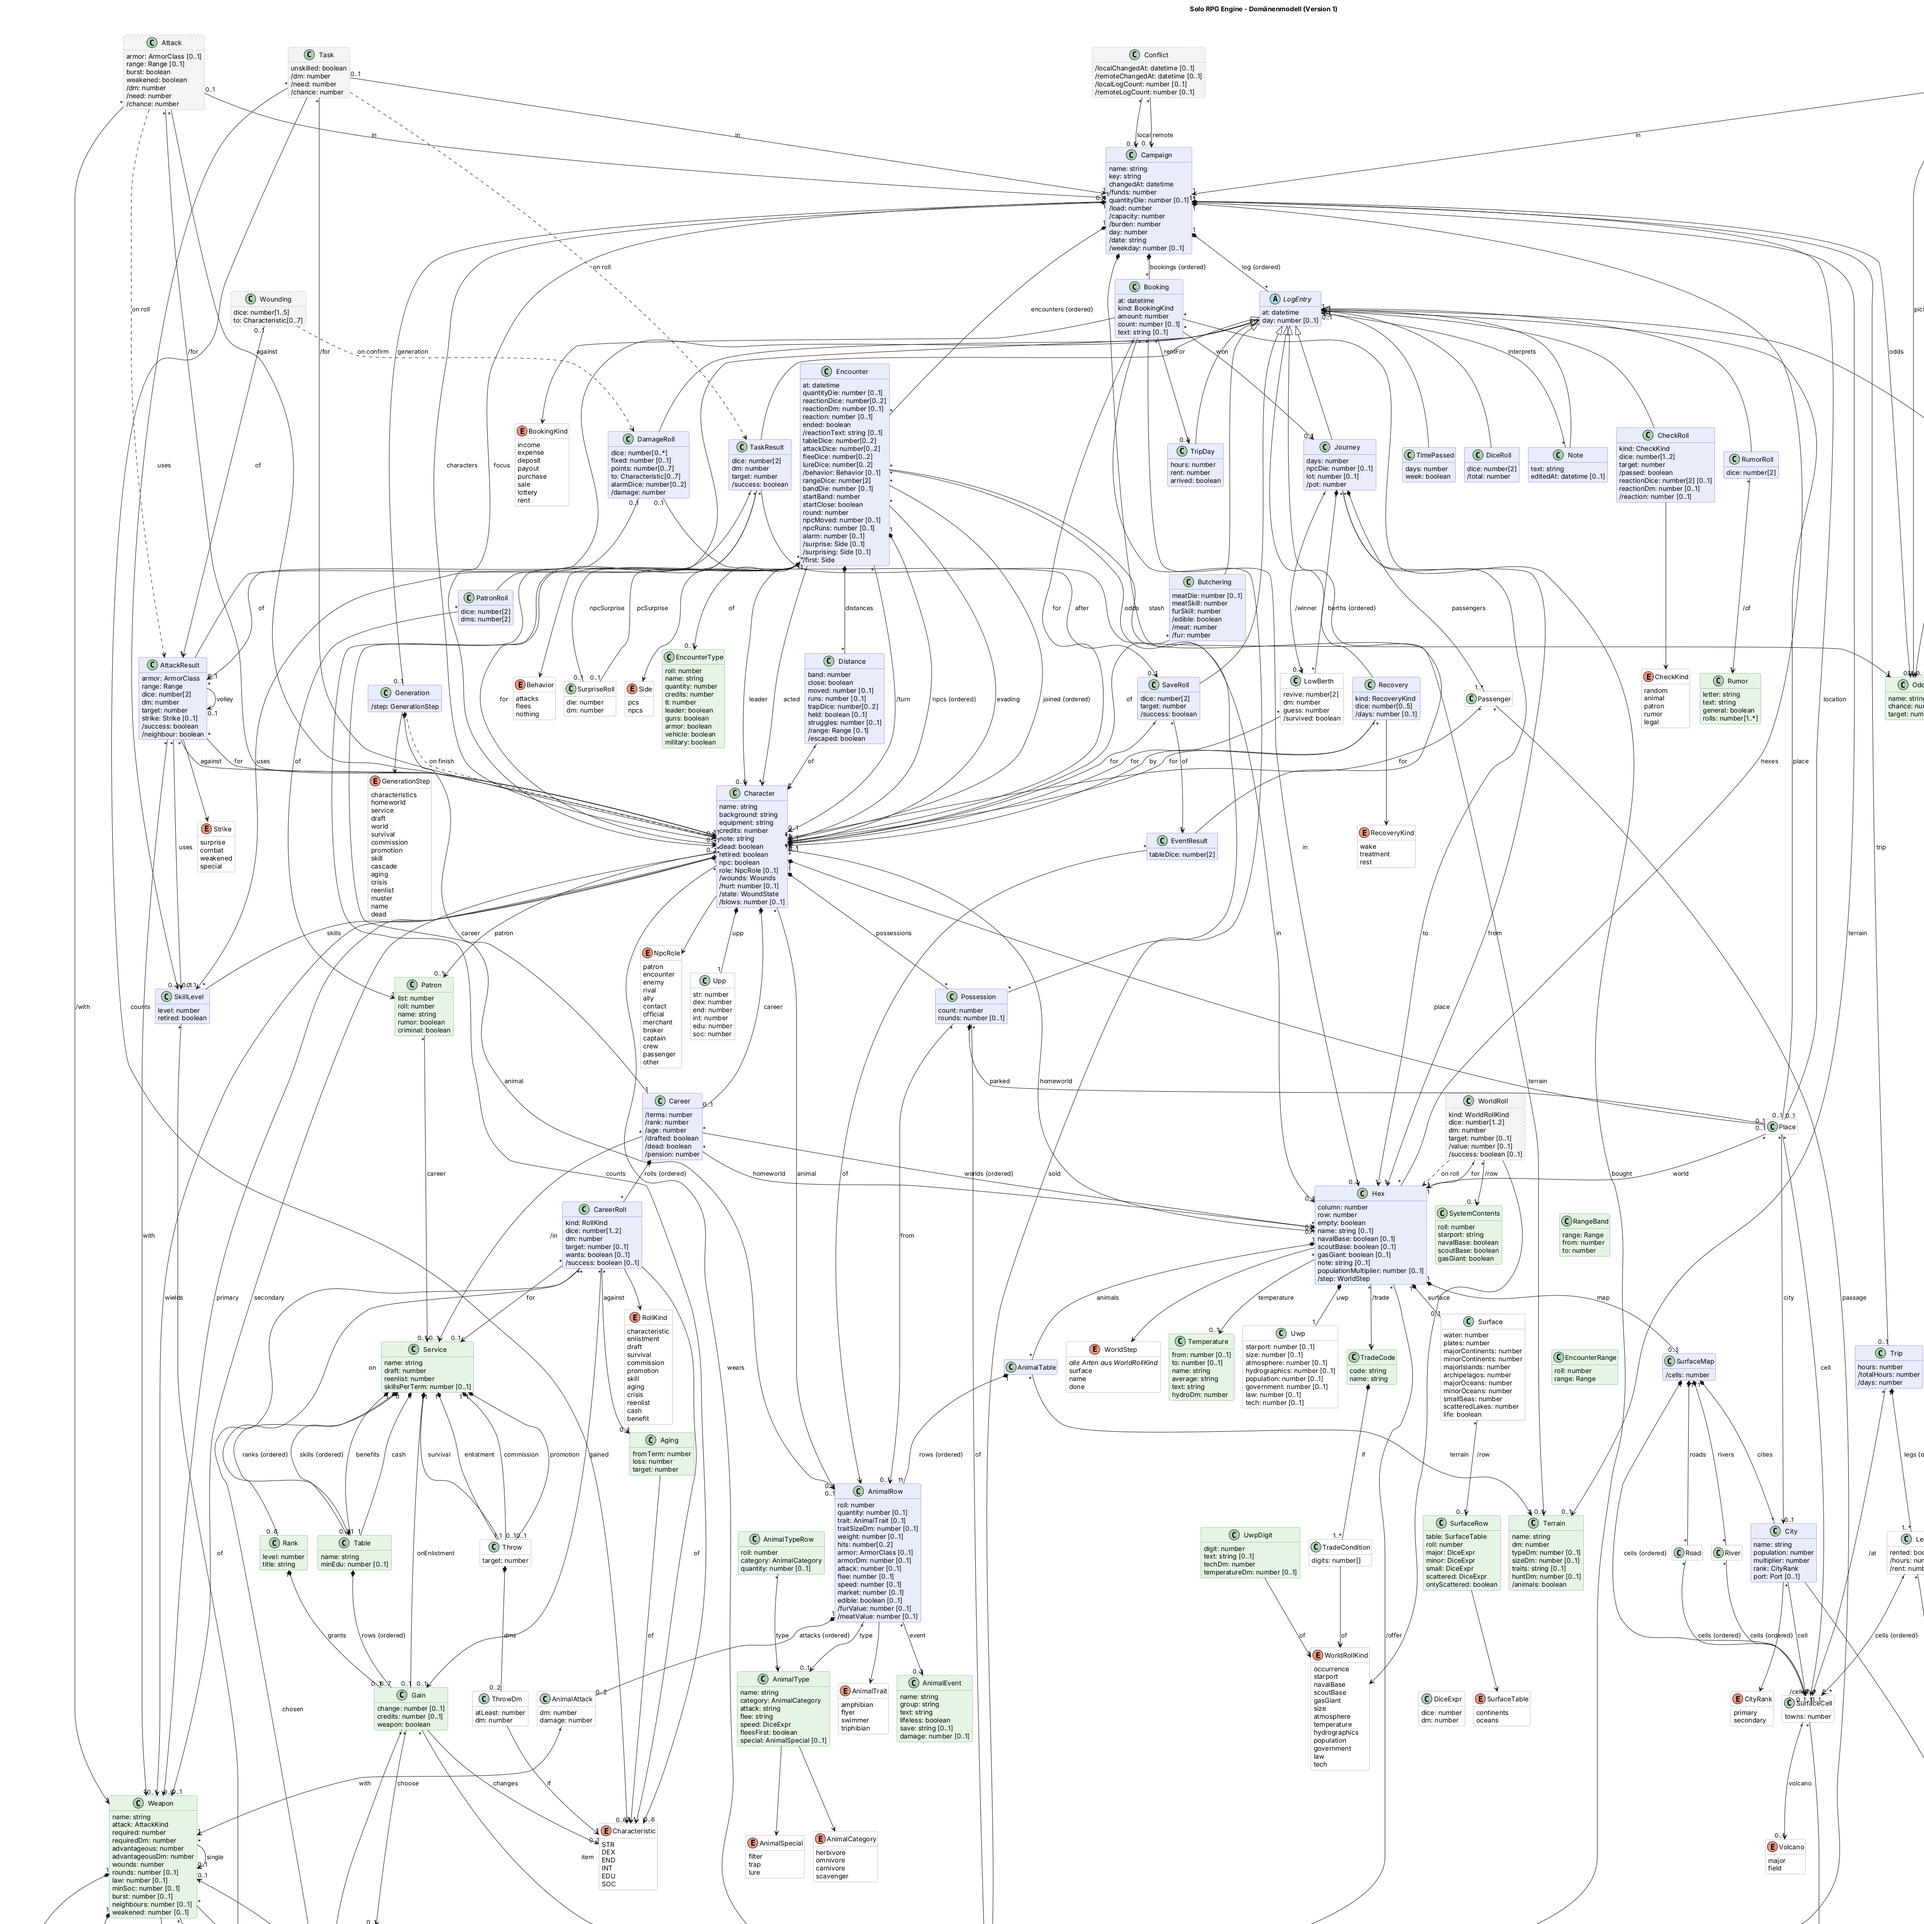
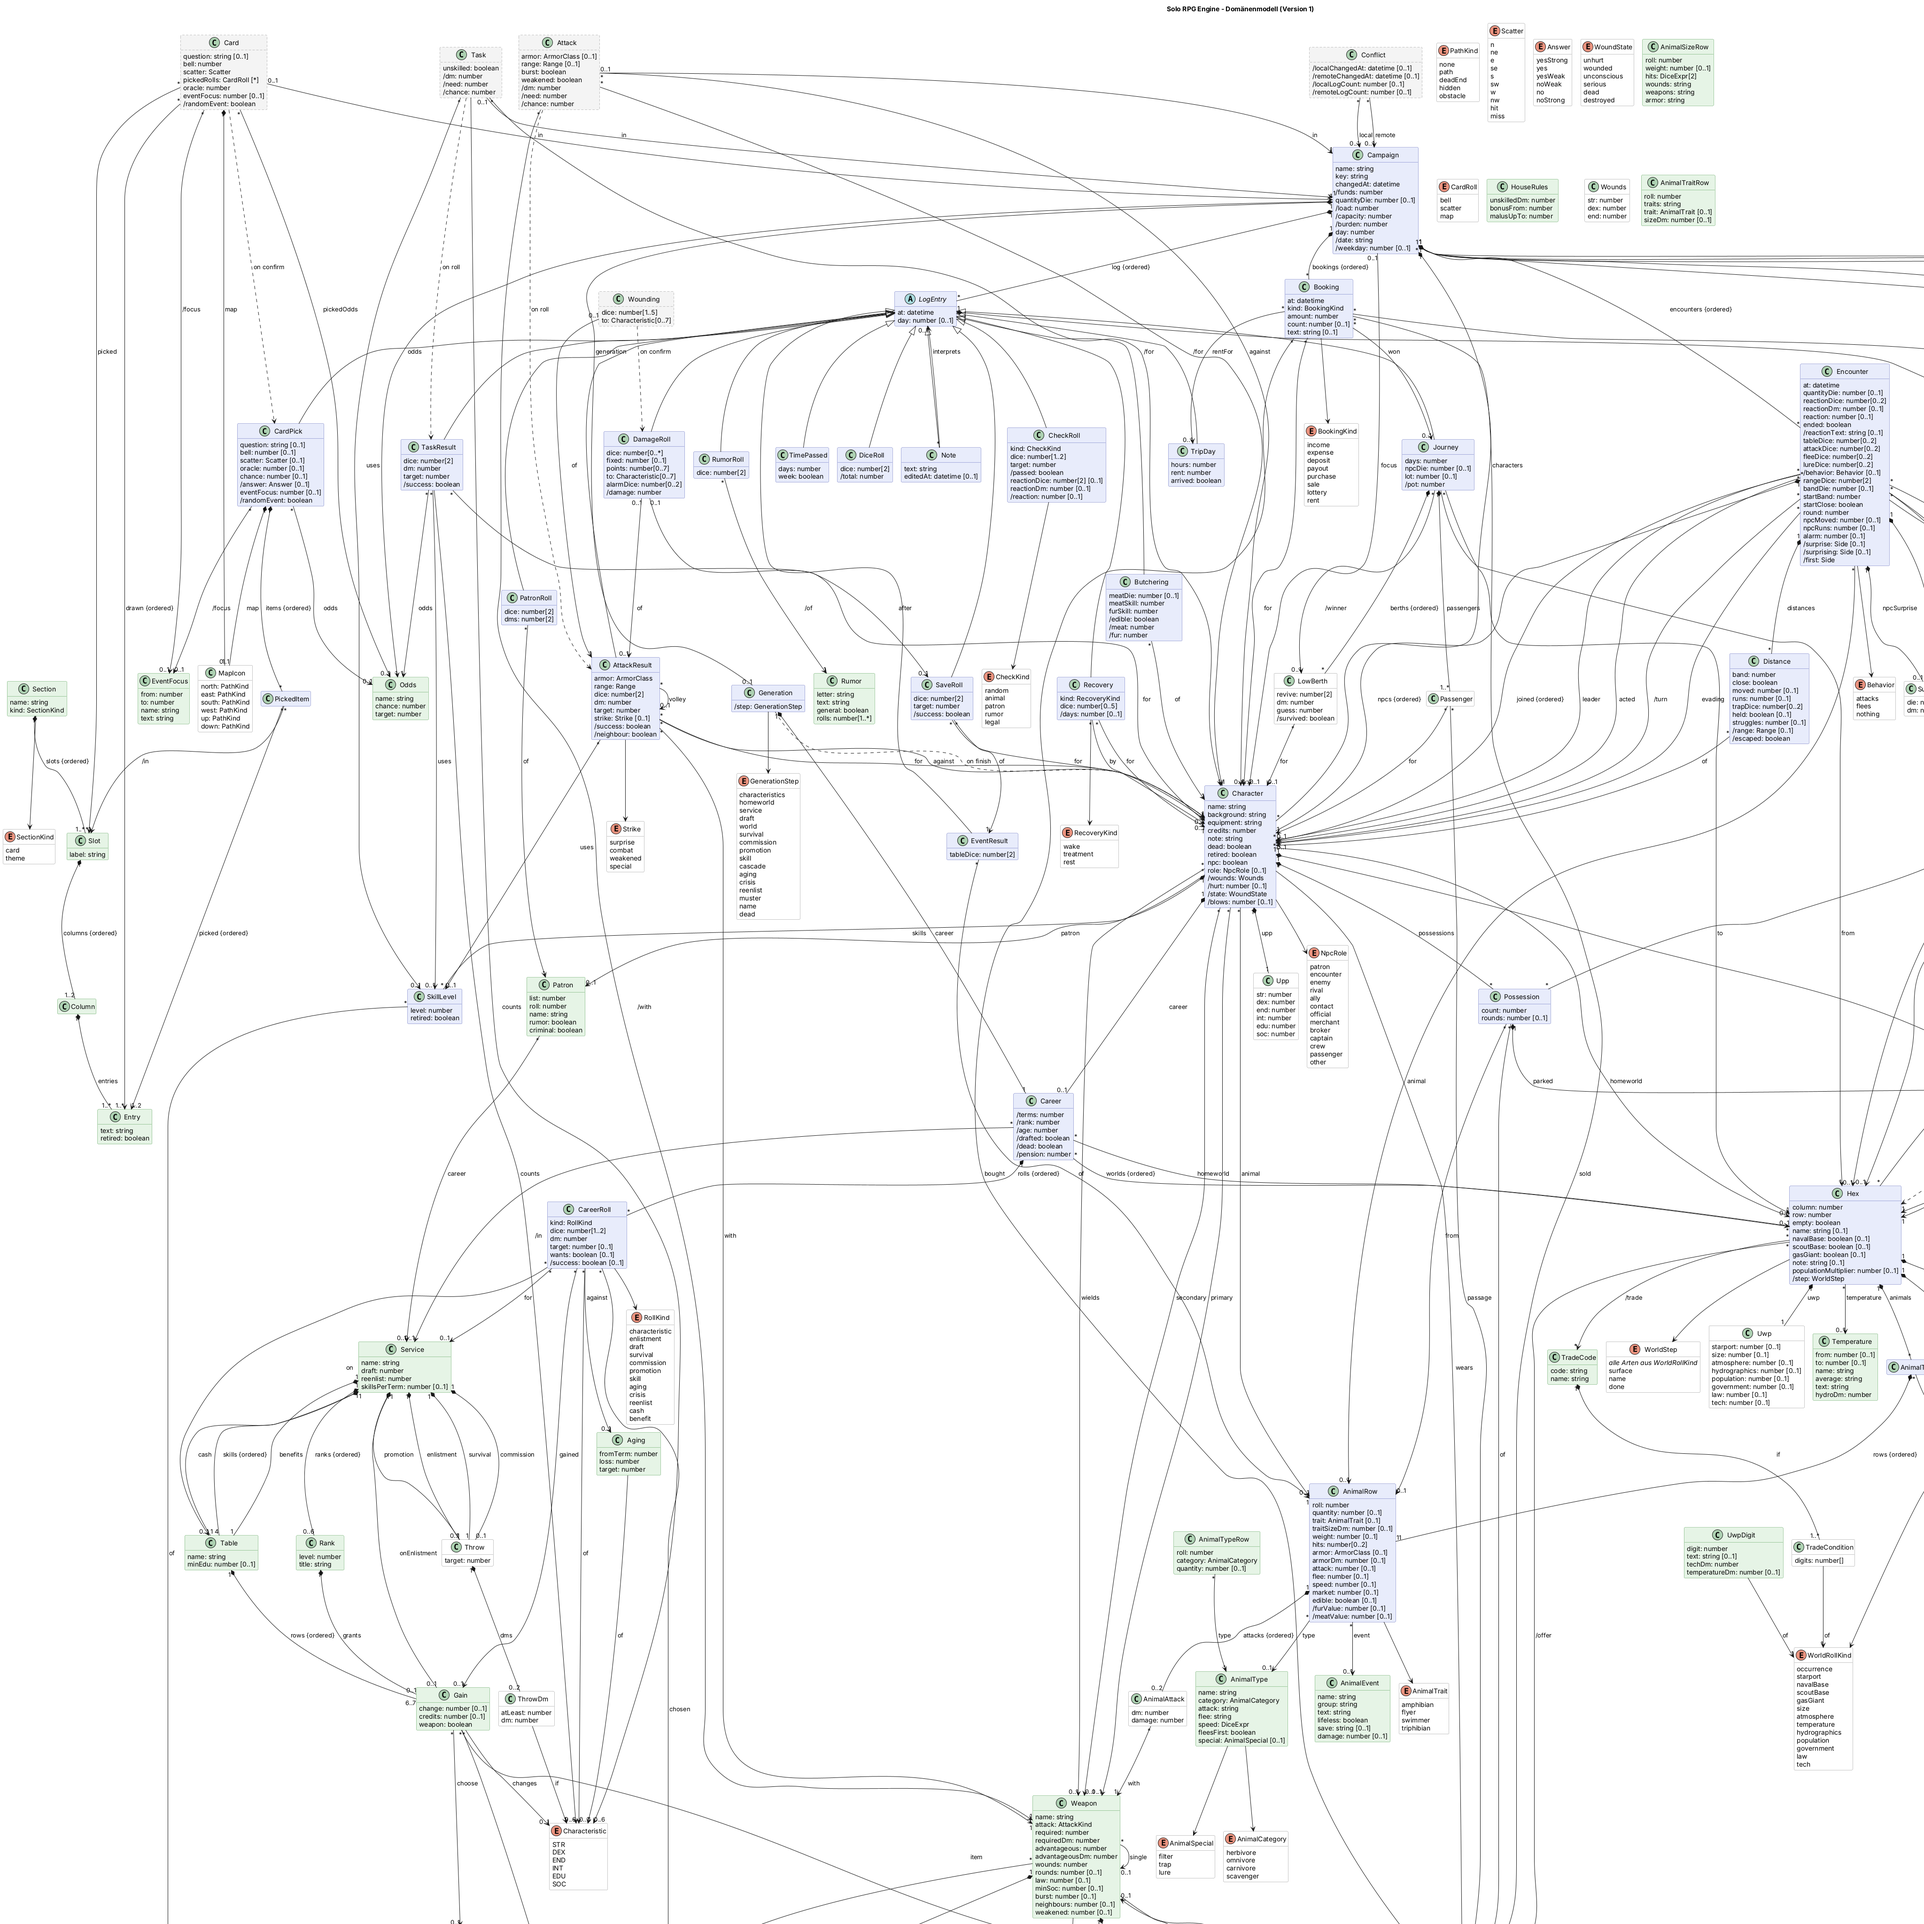
Modell-Entwurf: Gelaende der Begegnungen aus dem Aufenthaltsort (2026-11-15b)
Claude-Session: https://claude.ai/code/session_016ZF27yAQwSMiEpzRynP9xd

diff --git a/docs/domain-model.md b/docs/domain-model.md
@@ -345,6 +345,12 @@ Lücken unter [Wo der Code noch nicht folgt](#wo-der-code-noch-nicht-folgt).
 > `Possession.parked` und der Bereich *Fahrzeuge und Wege*. Der Ausschnitt dazu liegt unter
 > [`changes/2026-11-15-fahrzeuge-und-gelaende.png`](changes/2026-11-15-fahrzeuge-und-gelaende.png).
 
+> **Entwurf, noch nicht abgestimmt** (Kennzeichen 2026-11-15b): **Gelände aus dem Aufenthaltsort**
+> (siehe *Gelände*). Kommt die Gruppe auf ein Feld oder in eine Stadt, belegt die App das Gelände
+> der Begegnungen vor: je Geländeart der Oberflächenkarte ein Gelände, in einer Stadt City. Von Hand
+> ändern geht weiter. Neu im Bild: `Landform → Terrain : terrain`. Der Ausschnitt dazu liegt unter
+> [`changes/2026-11-15-gelaende-aus-dem-aufenthaltsort.png`](changes/2026-11-15-gelaende-aus-dem-aufenthaltsort.png).
+
 ![Domänenmodell der Solo RPG Engine](domain-model.png)
 
 Die Quelle ist [`domain-model.puml`](domain-model.puml) (PlantUML). Nach jeder Änderung das Bild und
@@ -375,7 +381,7 @@ Bereiche und Änderungen stehen in [`model-views.json`](model-views.json).
 | Zeit und Reisen | [views/reise.png](views/reise.png) |
 
 Die Änderungen, offen und freigegeben, liegen unter [`changes/`](changes/); offen ist zurzeit
-keine.
+2026-11-15b (Gelände aus dem Aufenthaltsort).
 
 Das Diagramm zeigt den **gespeicherten Stand** und die Referenzdaten, auf die er verweist: Daten und
 Beziehungen, keine Operationen. **Blau** ist der Spielstand, den die App speichert. **Grau mit
@@ -515,6 +521,7 @@ Vacc Suit, Jack-of-all-Trades, …), Terms, Cr.
 | Entkommen | `Distance./escaped` | Mehr als 20 Bands: Der SC hat die NSC verloren (Book 1, S. 33) |
 | Ausweichen | `Encounter.evading` | Ein Kämpfer greift in seinem Zug nicht an, sondern weicht aus; bis zu seinem nächsten Zug bekommt jeder Angriff auf ihn DM −1, −2 oder −4 (SR 20) |
 | Gelände | `Terrain`, `Campaign.terrain` | Wo die Gruppe ist und die Begegnungen stattfinden, für alle Begegnungsarten gleich: DM auf die Entfernung (S. 5), z. B. Clear +3, City −4, und wo es Tiere gibt die DMs auf Tierart und Größe (S. 18) |
+| Gelände einer Geländeart | `Landform.terrain` | Das Gelände der Begegnungen, mit dem die App vorbelegt, wenn die Gruppe auf ein Feld dieser Geländeart kommt, z. B. Gebirge → Mountain |
 | Überraschung | `pcSurprise`, `npcSurprise`, `/surprise` | 1W6 je Partei mit DMs (S. 5); wer 3 oder mehr höher liegt, hat Überraschung |
 | Alarm | `Encounter.alarm` | Die Runde, in der die überraschte Partei Alarm gegeben hat; danach hält die Überraschung nicht mehr (SR 20) |
 | Überraschung hält | `/surprising` | Die Partei mit Überraschung, solange es keinen Alarm gab, einschließlich der Runde des Alarms |
@@ -1315,6 +1322,29 @@ Vacc Suit, Jack-of-all-Trades, …), Terms, Cr.
   neben dem Aufenthaltsort, und es bleibt an der Kampagne (`Campaign.terrain`), bis man es ändert;
   fehlt es, gilt ±0 und es gibt keine Tiere. Jede Begegnung hält das Gelände fest, mit dem sie
   gewürfelt wurde (`Encounter.terrain`).
+  - **Vorbelegt aus dem Aufenthaltsort** (Entwurf, 2026-11-15b): Kommt die Gruppe auf ein Feld oder
+    in eine Stadt (Gruppe hierher setzen, jeder Reisetag einer Fahrt, Ankunft), setzt die App das
+    Gelände neu: in einer Haupt- oder Nebenstadt City, sonst das Gelände der Geländeart des Feldes
+    (`Landform.terrain`). Danach kann man es oben im Reiter Begegnung wie bisher ändern, etwa auf
+    River am Fluss oder Ruins; es gilt bis zum nächsten Ortswechsel. Ohne Feld (nur die Welt, nach
+    einer Reise zwischen Welten, eine Orbitalstadt) bleibt das Gelände, wie es ist.
+  - **Die Zuordnung** (Vorschlag, Hausregel):
+
+    | Geländeart | Gelände |
+    |---|---|
+    | Wasser | Maritime Surface |
+    | Eis auf Wasser, Eis auf Land | Arctic |
+    | Tundra | Prairie, Plain, Steppes |
+    | Gebirge | Mountain |
+    | Zerklüftet | Rough, Hills |
+    | Wüste | Desert |
+    | Dschungel | Jungle |
+    | Sumpf | Swamp |
+    | Offen/Wald | Forest, Woods |
+    | Besiedelt | Clear, Road, Open |
+    | (Stadt auf dem Feld) | City |
+
+    Eine Kleinstadt macht aus dem Feld keine City; dort gilt die Geländeart.
   - Die Liste vereint die Geländearten der Entfernung (SE 5) mit denen der Tiere (SE 18): jedes
     Gelände hat seinen DM auf die Entfernung (`dm`), und wo es Tiere gibt (`/animals`), die DMs auf
     Tierart und Größe (`typeDm`, `sizeDm`) und die Spalte der Besonderheiten (`traits`: Beach, Marsh,
